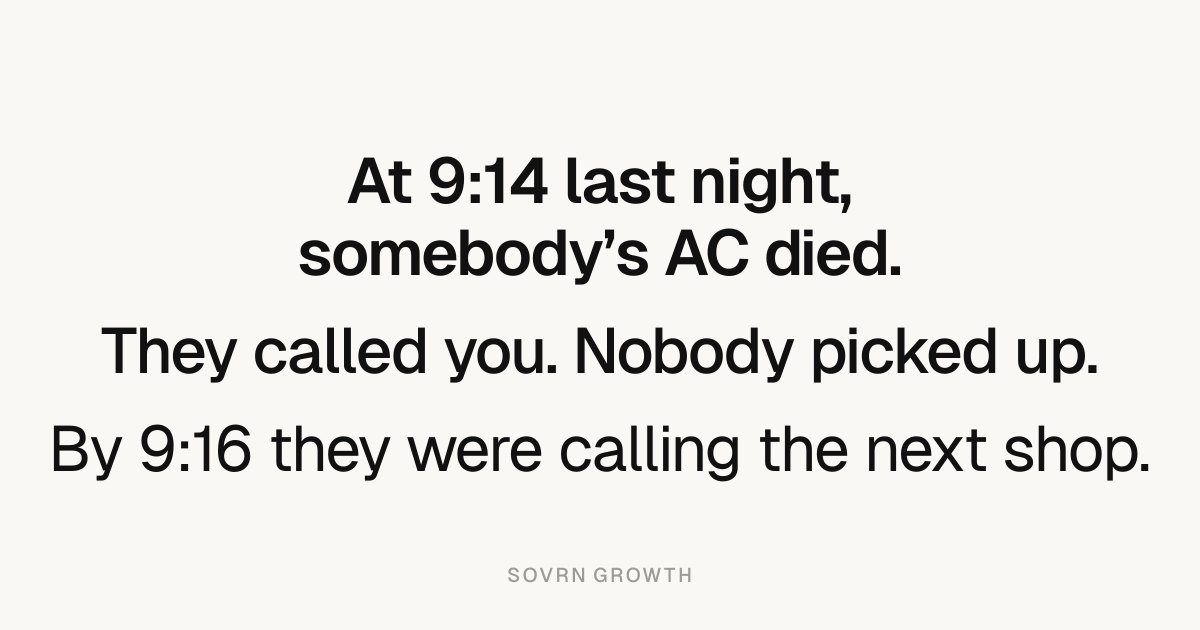
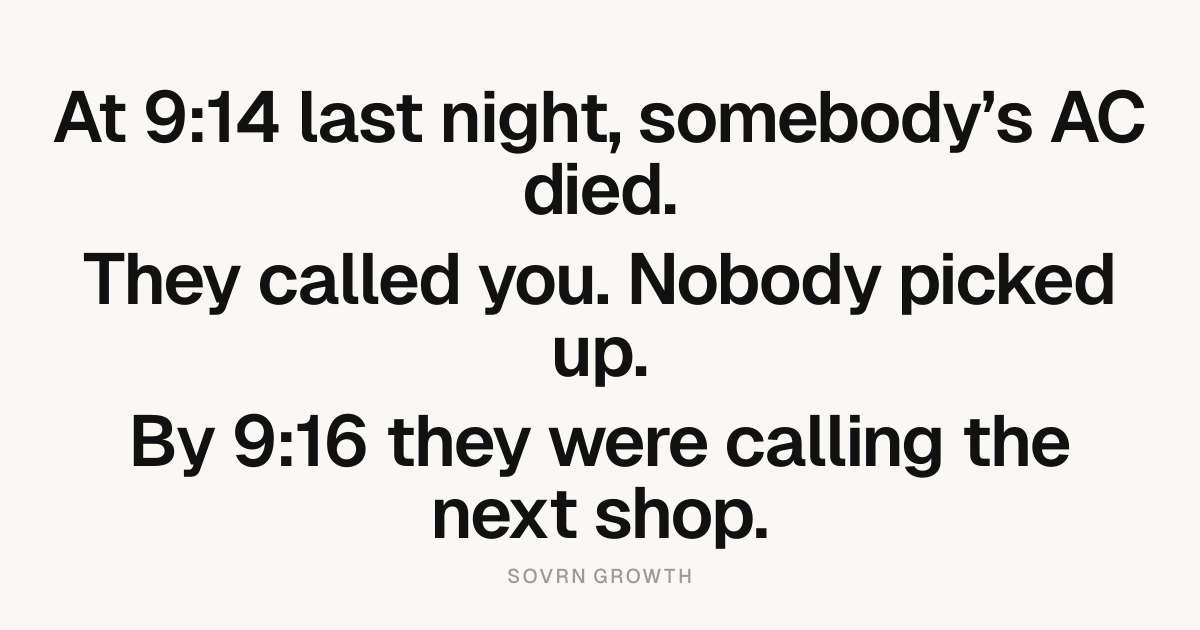
Fix responsive accessibility audit findings

diff --git a/src/index.css b/src/index.css
@@ -175,11 +175,14 @@ button:focus-visible {
   gap: 4px 8px;
   margin: 24px 0 0;
   color: var(--ink);
-  font-size: 15px;
+  font-size: 16px;
   font-weight: 560;
 }
 
 .hero-contact a {
+  display: inline-flex;
+  min-height: 44px;
+  align-items: center;
   text-decoration-thickness: 1px;
   text-underline-offset: 4px;
 }
@@ -244,7 +247,7 @@ button:focus-visible {
 
 .fork-card-muted {
   background: #f0ede8;
-  color: var(--muted);
+  color: #6f6a64;
 }
 
 .fork-card-positive {
@@ -469,7 +472,7 @@ button:focus-visible {
 
 .sms-event {
   margin: 0 0 14px;
-  color: #8e8e93;
+  color: #6e6e73;
   font-size: 10px;
   font-weight: 550;
   letter-spacing: 0.05em;
@@ -656,8 +659,8 @@ button:focus-visible {
 
 .fine-print {
   margin: 24px 0 0;
-  color: rgba(17, 17, 17, 0.48);
-  font-size: 13px;
+  color: rgba(17, 17, 17, 0.68);
+  font-size: 14px;
 }
 
 .benchmark {
@@ -913,11 +916,14 @@ button:focus-visible {
 
 .close-actions p {
   margin: 0;
-  color: rgba(17, 17, 17, 0.55);
-  font-size: 15px;
+  color: var(--body);
+  font-size: 16px;
 }
 
 .phone-link {
+  display: inline-flex;
+  min-height: 44px;
+  align-items: center;
   color: var(--ink);
   font-weight: 600;
   text-underline-offset: 4px;
@@ -933,8 +939,8 @@ button:focus-visible {
   align-items: center;
   justify-content: space-between;
   gap: 32px;
-  color: rgba(17, 17, 17, 0.55);
-  font-size: 13px;
+  color: rgba(17, 17, 17, 0.68);
+  font-size: 14px;
 }
 
 .footer-grid p {
@@ -947,6 +953,11 @@ button:focus-visible {
 }
 
 .footer-grid a {
+  display: inline-flex;
+  min-width: 44px;
+  min-height: 44px;
+  align-items: center;
+  justify-content: center;
   text-underline-offset: 3px;
 }
 
@@ -1164,14 +1175,14 @@ button:focus-visible {
   }
 
   .hero-subcopy {
-    font-size: 15px;
+    font-size: 16px;
     line-height: 1.45;
   }
 
   .hero-contact {
     gap: 3px 7px;
     margin-top: 18px;
-    font-size: 13px;
+    font-size: 16px;
   }
 
   .fork-card {
@@ -1180,7 +1191,7 @@ button:focus-visible {
   }
 
   .fork-list li {
-    font-size: 15px;
+    font-size: 16px;
   }
 
   .phone {
